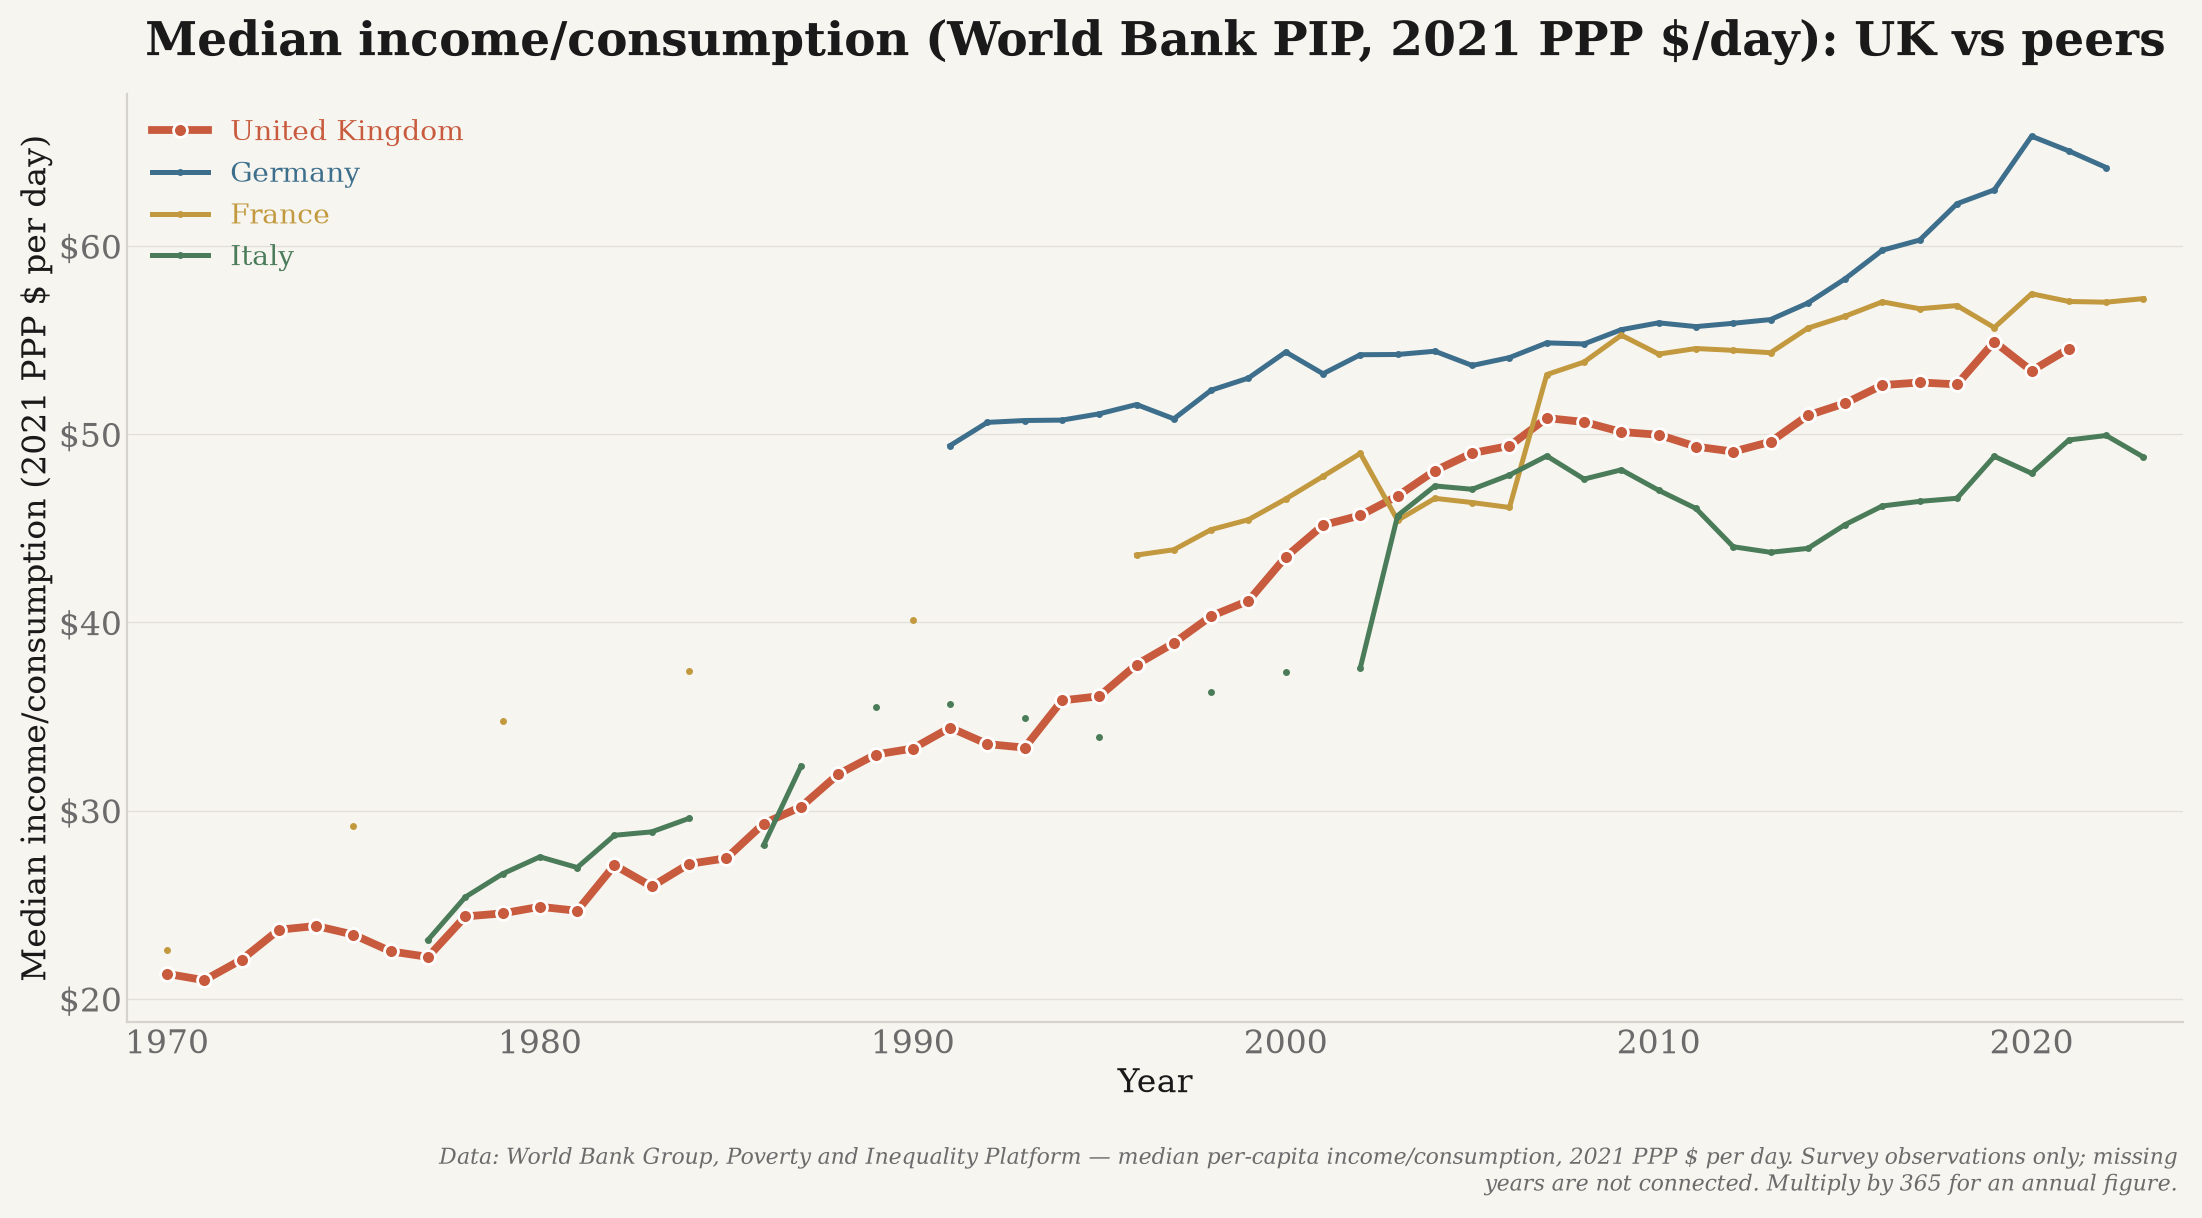
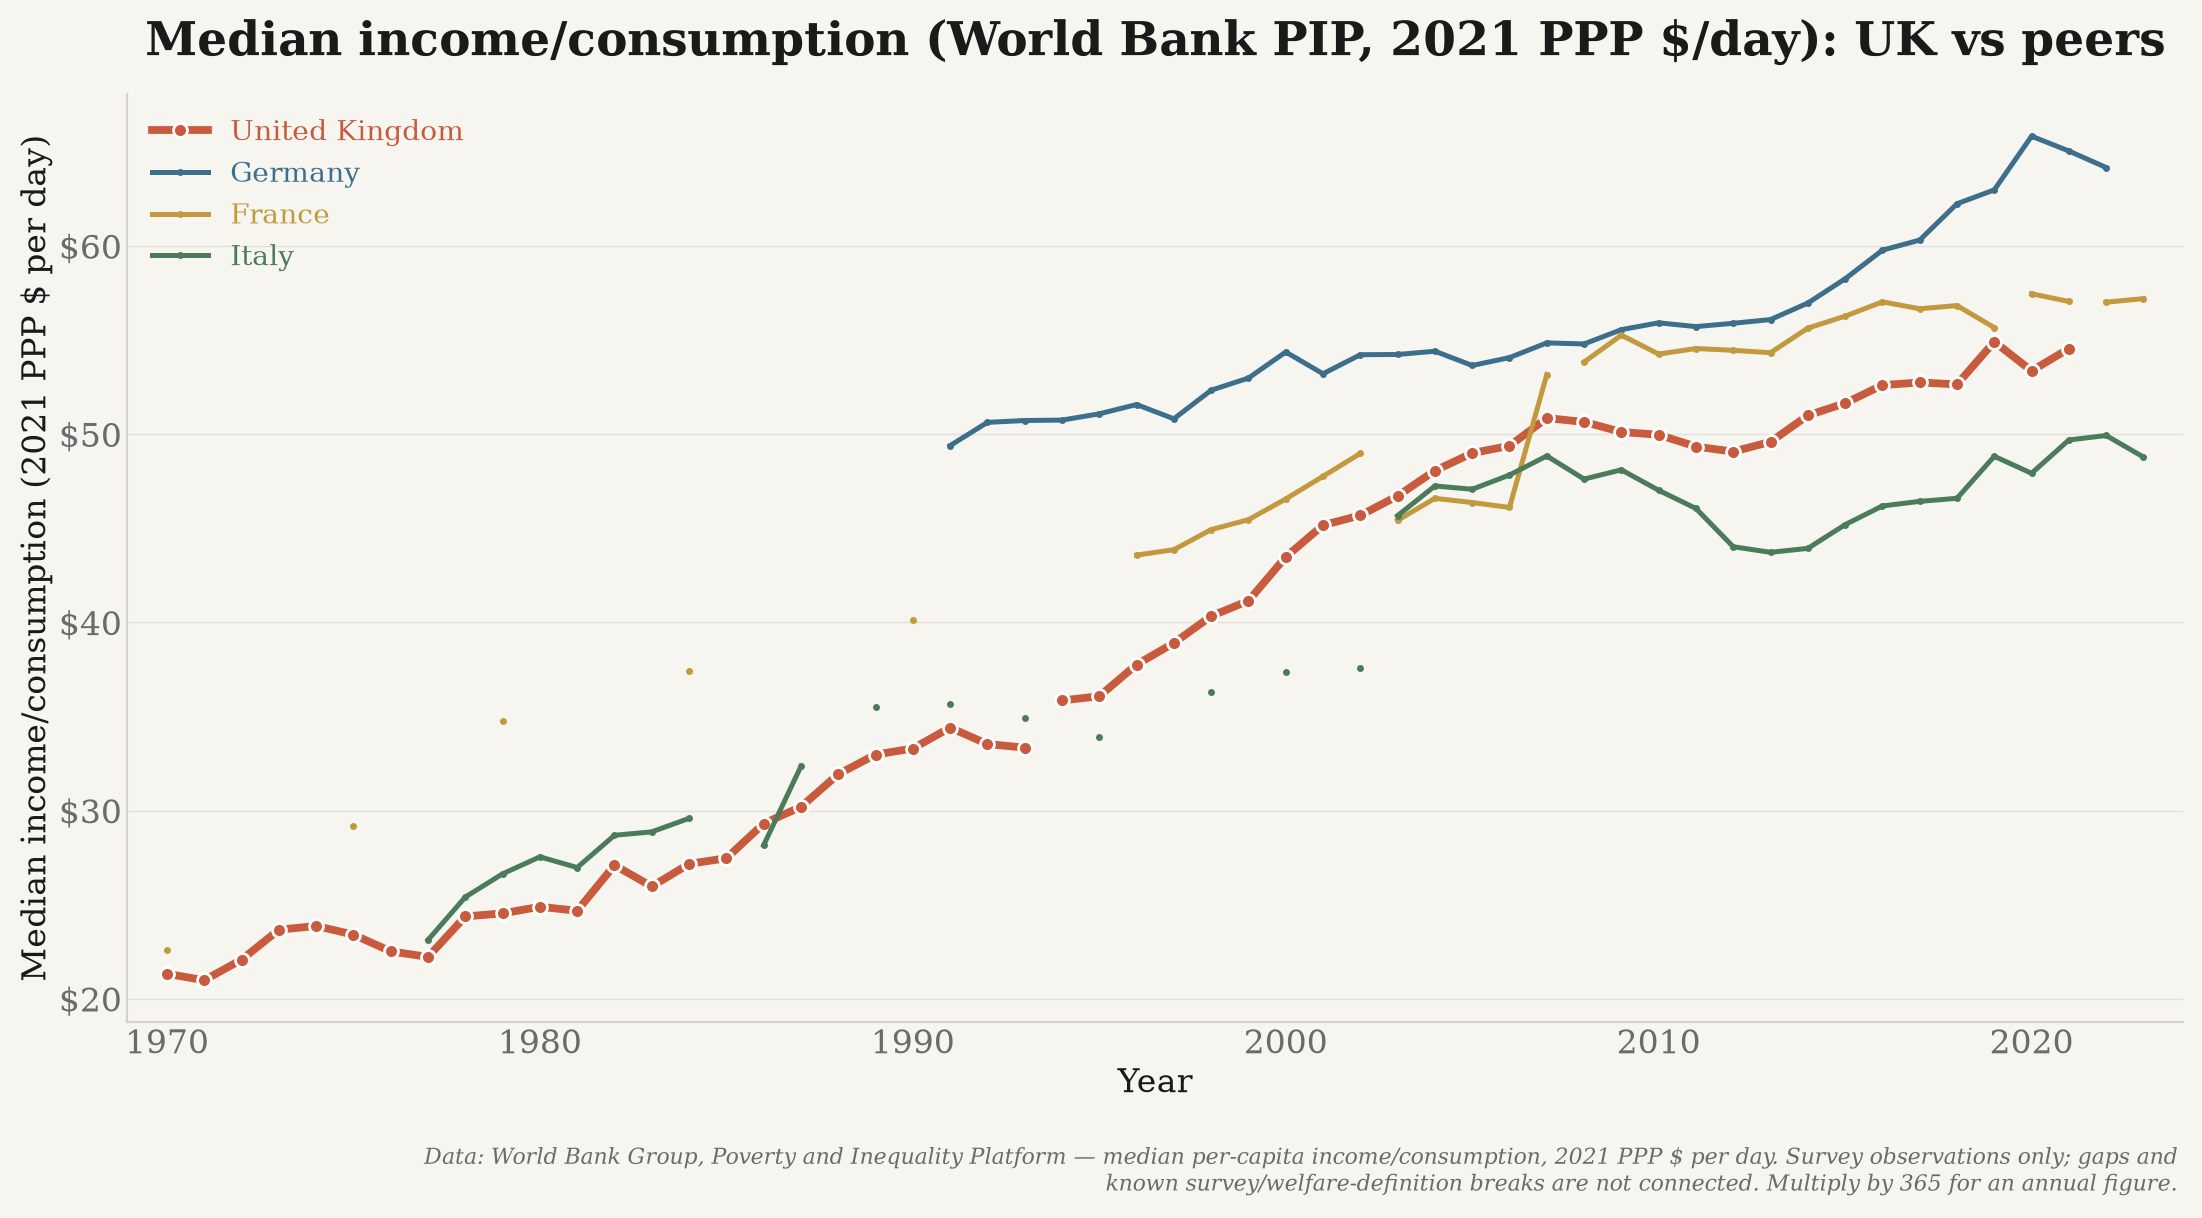
Preserve PIP survey comparability and reject empty income sources

Changed region(s): [[0.1853, 0.936, 0.9882, 0.9984]]

diff --git a/tests/test_pipeline.py b/tests/test_pipeline.py
@@ -36,6 +36,63 @@ def test_pip_request_pins_ppp_vintage_and_labels_it(monkeypatch):
     assert rows[0]["unit"] == "2021 PPP $ per day"
 
 
+def test_pip_selected_survey_metadata_survives_long_and_wide(monkeypatch, tmp_path):
+    from europe_data import pip
+
+    common = {"country_code": "GBR", "reporting_year": 2021}
+    payload = [
+        {**common, "reporting_level": "national", "welfare_type": "consumption",
+         "median": 20, "survey_comparability": 9},
+        {**common, "reporting_level": "urban", "welfare_type": "income",
+         "median": 90, "survey_comparability": 8},
+        {**common, "reporting_level": "national", "welfare_type": "income",
+         "median": 50, "survey_comparability": 0},
+        {**common, "reporting_year": 2022, "reporting_level": "national",
+         "welfare_type": "income", "median": 55, "survey_comparability": 1},
+    ]
+    monkeypatch.setattr(pip, "get_json", lambda *args, **kwargs: payload)
+    monkeypatch.setattr(pip, "_valid_codes", {"GBR"})
+    rows = pip.fetch(2021, 2022, iso3s=["GBR"])
+    assert [r["value"] for r in rows] == [50, 55]
+    assert [r["survey_comparability"] for r in rows] == [0, 1]
+    assert [r["welfare_type"] for r in rows] == ["income", "income"]
+    long_path, wide_path = tmp_path / "long.csv", tmp_path / "wide.csv"
+    combine.write_long(rows, str(long_path))
+    combine.write_wide(rows, str(wide_path))
+    with long_path.open() as fh:
+        long = list(csv.DictReader(fh))
+    with wide_path.open() as fh:
+        wide = list(csv.DictReader(fh))
+    assert [r["survey_comparability"] for r in long] == ["0", "1"]
+    assert [r["median_income_pip__survey_comparability"] for r in wide] == ["0", "1"]
+    assert [r["median_income_pip__welfare_type"] for r in wide] == ["income", "income"]
+    assert [float(r["median_income_pip"]) for r in wide] == [50, 55]
+
+
+def test_empty_source_preserves_europe_outputs_after_another_source_succeeds(monkeypatch, tmp_path):
+    import pytest
+    from europe_data import fetch_data
+
+    row = {"iso3": "GBR", "country": "United Kingdom", "year": 2021,
+           "metric": "gdp_per_capita_real_maddison", "value": 40_000,
+           "unit": "2011 international $", "source": "Maddison"}
+    monkeypatch.setattr(fetch_data.maddison, "fetch", lambda *args: [row])
+    monkeypatch.setattr(fetch_data.pip, "fetch", lambda *args: [])
+    paths = [tmp_path / name for name in (
+        "pip_median_income.csv", "europe_combined_long.csv",
+        "europe_combined_wide.csv", "manifest.json",
+    )]
+    for path in paths:
+        path.write_text("preserved source data\n")
+    with pytest.raises(RuntimeError, match="pip: source returned no observations"):
+        fetch_data.main([
+            "--sources", "maddison", "pip", "--out", str(tmp_path),
+            "--start", "2021", "--end", "2021",
+        ])
+    assert all(path.read_text() == "preserved source data\n" for path in paths)
+    assert not (tmp_path / "gdp_per_capita_real_maddison.csv").exists()
+
+
 def test_country_mappings() -> None:
     # Eurostat quirks: Greece is EL (not GR), UK is UK (not GB).
     assert countries.BY_ISO3["GRC"].eurostat == "EL"
@@ -217,6 +274,37 @@ def test_income_chart_preserves_sparse_points_and_source_breaks(monkeypatch, tmp
     assert list(ys[pd.notna(ys)]) == [100, 120, 130]
     assert line.get_marker() == "o"
     assert ax.get_xlabel() == "Survey year"
+
+
+def test_pip_chart_breaks_at_known_survey_and_welfare_changes(monkeypatch, tmp_path):
+    import pandas as pd
+    from europe_data import plot_uk_decline as plots
+
+    metric = "median_income_pip"
+    data = pd.DataFrame([
+        {"country": "United Kingdom", "year": year, metric: value,
+         f"{metric}__survey_comparability": group,
+         f"{metric}__welfare_type": welfare}
+        for year, value, group, welfare in [
+            (2000, 100, 0, "income"), (2001, 110, 0, "income"),
+            (2002, 120, 1, "income"), (2003, 130, None, "income"),
+            (2004, 140, None, "consumption"), (2005, 150, "", ""),
+            (2006, 160, 2, "consumption"),
+        ]
+    ])
+    captured = []
+    monkeypatch.setattr(plots.plt, "savefig", lambda *args, **kwargs:
+                        captured.append(plots.plt.gcf()))
+    plots._line_chart(
+        data, metric, "Income", "PPP $/day", lambda value, _: str(value),
+        plots.SOURCE_PIP, "pip.png", tmp_path,
+    )
+    line = captured[0].axes[0].lines[0]
+    xs, ys = line.get_xdata(), line.get_ydata()
+    assert list(xs[pd.isna(ys)]) == [2001.5, 2003.5]
+    assert list(xs[pd.notna(ys)]) == list(range(2000, 2007))
+    assert list(ys[pd.notna(ys)]) == [100, 110, 120, 130, 140, 150, 160]
+    assert line.get_marker() == "o"
 
 
 def test_combine_long_and_wide() -> None:

diff --git a/europe_data/plot_uk_decline.py b/europe_data/plot_uk_decline.py
@@ -30,7 +30,7 @@ matplotlib.use("Agg")  # headless: no display required
 import matplotlib.pyplot as plt
 import matplotlib.ticker as mtick
 import pandas as pd
-from europe_data import pip
+from europe_data import combine, pip
 from ppp_data.figure import labelled_ends
 
 # ── Professional house style (shared vizstyle house style) ───────────────────
@@ -74,16 +74,18 @@ SOURCE_EUROSTAT = ("Data: Eurostat (European Commission), ECHP/EU-SILC \u2014 me
                    "Missing years and flagged method breaks are not connected. UK ends 2018.")
 SOURCE_PIP = ("Data: World Bank Group, Poverty and Inequality Platform \u2014 median "
               f"per-capita income/consumption, {pip.UNIT}. Survey observations only; "
-              "missing years are not connected. Multiply by 365 for an annual figure.")
+              "gaps and known survey/welfare-definition breaks are not connected. "
+              "Multiply by 365 for an annual figure.")
 
 
 def _series(df: pd.DataFrame, country: str, metric: str) -> pd.DataFrame:
     """Non-null (year, value) rows for one country/metric, sorted by year."""
     sub = df[(df["country"] == country) & df[metric].notna()]
     columns = ["year", metric]
-    status_column = f"{metric}__status"
-    if status_column in sub.columns:
-        columns.append(status_column)
+    columns.extend(
+        f"{metric}__{field}" for field in combine.OPTIONAL_FIELDS
+        if f"{metric}__{field}" in sub.columns
+    )
     return sub[columns].sort_values("year")
 
 
@@ -114,9 +116,16 @@ def _line_chart(df: pd.DataFrame, metric: str, title: str, ylabel: str, yfmt,
         plotted = True
         status_column = f"{metric}__status"
         breaks = (
-            s.loc[s[status_column].fillna("").astype(str).str.contains("b", regex=False), "year"]
-            if status_column in s.columns else ()
+            s.loc[s[status_column].fillna("").astype(str).str.contains("b", regex=False), "year"].tolist()
+            if status_column in s.columns else []
         )
+        for field in ("survey_comparability", "welfare_type"):
+            column = f"{metric}__{field}"
+            if column in s.columns:
+                metadata = s[column]
+                known = metadata.notna() & metadata.ne("")
+                changed = known & known.shift(fill_value=False) & metadata.ne(metadata.shift())
+                breaks.extend(s.loc[changed, "year"])
         annual = with_year_gaps(s.set_index("year")[metric] / scale, breaks=breaks)
         is_uk = country == "United Kingdom"
         label = eu_label if country.startswith("European Union") else country

diff --git a/europe_data/combine.py b/europe_data/combine.py
@@ -8,7 +8,8 @@ import json
 import os
 from typing import Iterable
 
-LONG_FIELDS = ["iso3", "country", "year", "metric", "value", "unit", "source", "status"]
+OPTIONAL_FIELDS = ("status", "survey_comparability", "welfare_type")
+LONG_FIELDS = ["iso3", "country", "year", "metric", "value", "unit", "source", *OPTIONAL_FIELDS]
 
 # Wide-table column order (one row per country-year).
 METRIC_ORDER = [
@@ -31,23 +32,29 @@ def write_long(rows: list[dict], path: str) -> None:
         writer.writeheader()
         for r in rows_sorted:
             writer.writerow({
-                k: r.get(k, "") if k == "status" else r[k] for k in LONG_FIELDS
+                k: r.get(k, "") if k in OPTIONAL_FIELDS else r[k] for k in LONG_FIELDS
             })
 
 
 def write_wide(rows: list[dict], path: str) -> None:
-    # (iso3, country, year) -> metric values and optional source statuses.
-    table: dict[tuple[str, str, int], dict[str, float | str]] = {}
-    flagged_metrics = {r["metric"] for r in rows if r.get("status")}
+    # (iso3, country, year) -> metric values and optional source metadata.
+    table: dict[tuple[str, str, int], dict[str, float | str | int]] = {}
+    metadata_columns = {
+        (r["metric"], field)
+        for r in rows for field in OPTIONAL_FIELDS
+        if r.get(field) is not None and r.get(field) != ""
+    }
     columns = [
         *METRIC_ORDER,
-        *[f"{metric}__status" for metric in METRIC_ORDER if metric in flagged_metrics],
+        *[f"{metric}__{field}" for metric in METRIC_ORDER for field in OPTIONAL_FIELDS
+          if (metric, field) in metadata_columns],
     ]
     for r in rows:
         key = (r["iso3"], r["country"], r["year"])
         table.setdefault(key, {})[r["metric"]] = r["value"]
-        if r.get("status"):
-            table[key][f"{r['metric']}__status"] = r["status"]
+        for field in OPTIONAL_FIELDS:
+            if r.get(field) is not None and r.get(field) != "":
+                table[key][f"{r['metric']}__{field}"] = r[field]
 
     header = ["iso3", "country", "year", *columns]
     with open(path, "w", newline="") as fh:

diff --git a/europe_data/pip.py b/europe_data/pip.py
@@ -3,9 +3,9 @@
 Endpoint: https://api.worldbank.org/pip/v1/pip
 Returns the median daily household per-capita income/consumption in 2021 PPP $.
 
-This is globally comparable and, crucially, covers the UK through ~2021 -- filling the
-gap left by Eurostat (which loses the UK after ~2018). Values are per person per day;
-multiply by 365 for an annual figure (documented in the README).
+PPPs adjust for price differences, but survey welfare definitions can still differ.
+The UK series extends beyond Eurostat's coverage, which ends around 2018. Values are
+per person per day; multiply by 365 for an annual figure (documented in the README).
 """
 
 from __future__ import annotations
@@ -45,7 +45,7 @@ def fetch(
 ) -> list[dict]:
     """Fetch PIP median-income rows (national level) for the given years/countries.
 
-    Returns tidy dict rows: iso3, country, year, metric, value, unit, source.
+    Returns tidy rows with the source's comparability identifier and welfare type.
     """
     requested = list(iso3s) if iso3s is not None else countries.iso3_codes()
     # PIP returns a 404 if *any* requested code is absent, so pre-filter to valid codes.
@@ -94,6 +94,8 @@ def fetch(
                 "value": float(median),
                 "unit": UNIT,
                 "source": SOURCE,
+                "survey_comparability": row.get("survey_comparability"),
+                "welfare_type": row.get("welfare_type"),
             })
 
     return [record for _, record in best.values()]

diff --git a/europe_data/fetch_data.py b/europe_data/fetch_data.py
@@ -67,6 +67,11 @@ def main(argv: list[str] | None = None) -> int:
     for name in tqdm(args.sources, desc="sources", unit="src"):
         stem, fn = fetchers[name]
         rows = fn(args.start, args.end)
+        if not rows:
+            raise RuntimeError(
+                f"{name}: source returned no observations for {args.start}-{args.end}; "
+                "existing data was not replaced"
+            )
         # Retain the legacy CPI-adjusted dollar valuation for downstream consumers.
         if name == "worldbank":
             cpi = worldbank.us_cpi(args.start, args.end)

diff --git a/europe_data/README.md b/europe_data/README.md
@@ -65,7 +65,11 @@ preceding calendar year, with exceptions including the UK. The ECHP-to-EU-SILC
 transition and later national survey changes introduce method breaks. Source status
 flags are retained in the data; charts do not connect observations across a flagged
 break or a missing year. PIP's sparse early surveys are shown as points, not an
-interpolated annual history.
+interpolated annual history. Its comparability-spell identifiers and welfare types
+are retained, and lines also stop at known changes in either. PPP adjustment does
+not eliminate differences in national survey methods or welfare definitions.
+PIP labels observations by the **welfare reporting year**, which can precede the
+survey year when income is collected retrospectively.
 
 ## Data sources (all free, no API key)
 
@@ -93,7 +97,7 @@ Poland. Spain is fetched but not plotted.
 ## Citations
 
 GDP inputs: WDI release updated **8 October 2026**, accessed **12 October 2026**.
-Eurostat income data: accessed **13 October 2026**. PIP and Maddison sources:
+Eurostat and PIP income data: accessed **13 October 2026**. Maddison source:
 accessed **15 August 2026**.
 
 - **World Bank** (2026). *World Development Indicators* — GDP per capita, constant 2015 US$
@@ -136,6 +140,16 @@ pipeline performs interpolation or gap-filling. That does not mean upstream GDP 
 estimates are free of modelling or extrapolation. Eurostat's `status` codes accompany
 the long-format observations and appear as `<metric>__status` columns in the wide table
 when flags are present; `b` identifies a break in series.
+PIP's `survey_comparability` (including the valid identifier `0`) and `welfare_type`
+are retained in long format and as `<metric>__survey_comparability` /
+`<metric>__welfare_type` in wide format. A change between known identifiers or
+welfare types marks a line break; absent metadata alone is not treated as a break.
+This follows the World Bank's
+[PIP comparability guidance](https://worldbank.github.io/PIP-Methodology-2022-04/welfareaggregate.html#comparability)
+and the comparability metadata described in its
+[March 2026 technical note, section 6](https://documents1.worldbank.org/curated/en/099434403202630952/pdf/IDU-6226a428-a460-457e-ad48-9625630a029f.pdf).
+If any requested source returns no observations, the fetch run stops before replacing
+the source files or combined tables.
 
 The [PPP methodology](../ppp_data/README.md#methodology-and-contemporary-research)
 compares the approach with World Bank guidance, the Eurostat-OECD PPP manual, and ONS's
